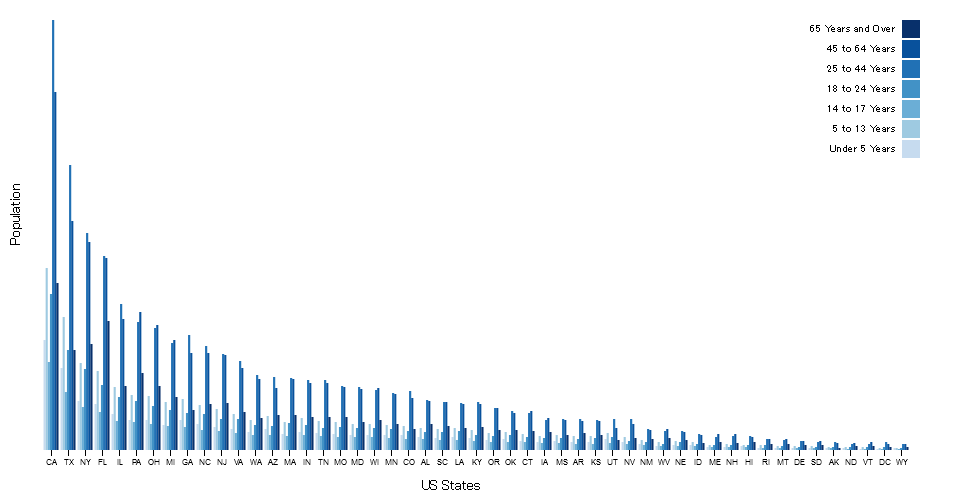
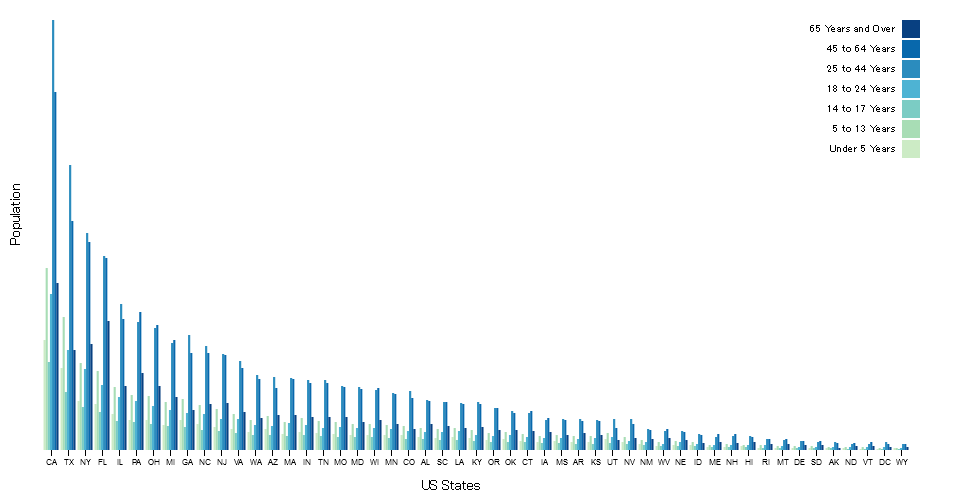
improvements on color pallete, etc.

Changed region(s): [[0.0312, 0.48, 0.9062, 0.9], [0.9375, 0.12, 0.9688, 0.33]]

diff --git a/index.html b/index.html
@@ -1,4 +1,3 @@
-
 <!DOCTYPE html>
 <meta charset="utf-8">
 <style>
@@ -9,9 +8,9 @@
   <h2>Population by age group across US states</h2>
   <div class="inner">
 	<div class="controls">
-	  <form title="toggle bar chart between grouped and stacked views">
-		<label><input id="toggleGrouped" type="radio" name="mode" value="grouped"> Grouped</label>
+	  <form title="toggle bar chart between stacked and grouped views">
 		<label><input id="toggleStacked" type="radio" name="mode" value="stacked" checked> Stacked</label>
+		<label><input id="toggleGrouped" type="radio" name="mode" value="grouped"> Grouped</label>
 	  </form>
     </div>
 	<div class="graph">
@@ -38,9 +37,7 @@ var y = d3.scaleLinear()
     .rangeRound([height, 0]);
 
 var colorScale = d3.scaleOrdinal()
-   .range(["#c6dbef", "#9ecae1", "#6baed6", "#4292c6", "#2171b5", "#08519c", "#08306b"]);
-//   .range(["#98abc5", "#8a89a6", "#7b6888", "#6b486b", "#a05d56", "#d0743c", "#ff8c00"]);
-//   .range(["#ffeda0", "#fed976", "#feb24c", "#fd8d3c", "#fc4e2a", "#e31a1c", "#bd0026"]);
+   .range(["#ccebc5", "#a8ddb5", "#7bccc4", "#4eb3d3", "#2b8cbe", "#0868ac", "#084081"]);
 
 var columns,
     numStates,

diff --git a/README.md b/README.md
@@ -6,14 +6,14 @@ this [older example from Mike Bostock for d3.js v3](https://bl.ocks.org/mbostock
 
 ## Stacked view
 
-![](https://raw.githubusercontent.com/buruzaemon/d3_stacked_to_grouped/master/stacked.png)
+![stacked bars](https://raw.githubusercontent.com/buruzaemon/d3_stacked_to_grouped/master/stacked.png)
 
 The age groups for each US state are stacked up to show the total population in
 relation to the others.
 
 ## Grouped view
 
-![](https://raw.githubusercontent.com/buruzaemon/d3_stacked_to_grouped/master/grouped.png)
+![grouped bars](https://raw.githubusercontent.com/buruzaemon/d3_stacked_to_grouped/master/grouped.png)
 
 Toggling from stacked to grouped, the total populations for each state are now
 broken out into their separate age group categories. 
@@ -25,6 +25,6 @@ broken out into their separate age group categories.
 * [d3.scaleLinear](https://github.com/d3/d3-scale/blob/master/README.md#scaleLinear)
   for automatically scaling the bar heights
 * [d3.scaleOrdinal](https://github.com/d3/d3-scale/blob/master/README.md#scaleOrdinal)
-  for setting the categorical color pallete for each age group
+  for setting the [sequential, multi-hued color pallete](http://colorbrewer2.org/#type=sequential&scheme=GnBu&n=9) representing each age group
 * [d3.csv](https://github.com/d3/d3-request/blob/master/README.md#csv) to
   handle the comma-separated value data
